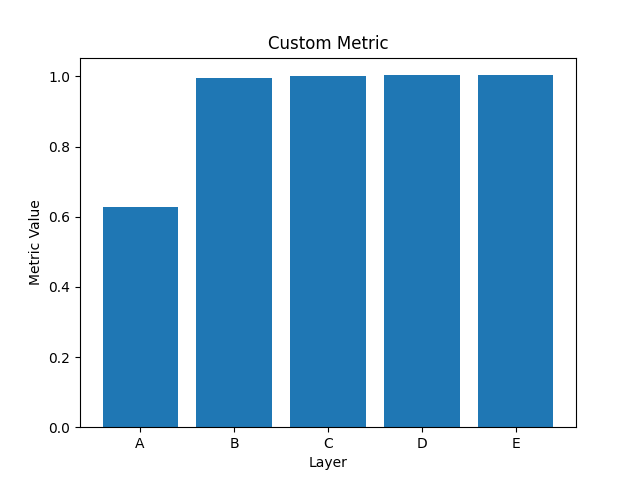
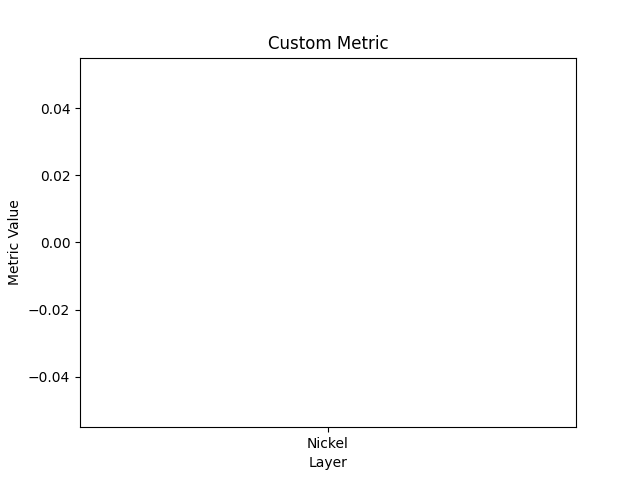
adjusted architecture for training/testing

diff --git a/train.py b/train.py
@@ -1,5 +1,173 @@
 import wandb
 import os
+import pdb
+import h5py
+import numpy as np
+import torch
+from torch.utils.data import Dataset, DataLoader
+import torch.nn as nn
+import torch.optim as optim
+import matplotlib.pyplot as plt
+from models import MineralTransformer, SimpleMineralTransformer
+from utils import visualize_layers, compute_dice_coefficients, plot_dice_coefficients, plot_metric, weighted_mse_loss
+
+# Initialize wandb
+wandb.init(project="mineral_transformer_project", name="2048_0.0001TEST")
+
+grid_size = 50
+d_model = 256
+num_minerals = 10  # Based on the provided details
+
+class MineralDataset(Dataset):
+    def __init__(self, h5_file_path, input_minerals, output_mineral, train=True, train_size=0.8):
+        self.h5_file_path = h5_file_path
+        self.input_minerals = input_minerals
+        self.output_mineral = output_mineral
+        self.train = train
+        
+        with h5py.File(h5_file_path, 'r') as f:
+            counts = f['counts'][:]
+        
+        num_samples = counts.shape[0]
+        indices = np.arange(num_samples)
+        np.random.shuffle(indices)
+        
+        train_split = int(train_size * num_samples)
+        if self.train:
+            self.indices = indices[:train_split]
+        else:
+            self.indices = indices[train_split:]
+        
+        self.counts = counts
+
+    def __len__(self):
+        return len(self.indices)
+
+    def __getitem__(self, idx):
+        index = self.indices[idx]
+        input_data = self.counts[index, self.input_minerals, :, :]
+        output_data = self.counts[index, self.output_mineral:self.output_mineral+1, :, :]
+        return torch.tensor(input_data, dtype=torch.float32), torch.tensor(output_data, dtype=torch.float32)
+losses = []
+def train(model, train_loader, num_epochs=500, learning_rate=0.001):
+    optimizer = optim.AdamW(model.parameters(), lr=learning_rate)
+    criterion = nn.MSELoss()
+
+    for epoch in range(num_epochs):
+        model.train()
+        total_loss = 0
+        for input_tensor_train, output_tensor_train in train_loader:
+            # pdb.set_trace()
+            optimizer.zero_grad()
+            outputs = model(input_tensor_train, output_tensor_train)
+
+            # Flatten for loss 
+            flat_outputs = outputs.view(outputs.size(0), -1)
+            flat_output_tensor_train = output_tensor_train.view(output_tensor_train.size(0), -1)
+
+            loss = criterion(flat_outputs, flat_output_tensor_train)
+            loss.backward()
+
+            nn.utils.clip_grad_norm_(model.parameters(), max_norm=1.0)
+            optimizer.step()
+
+            total_loss += loss.item()
+
+        avg_loss = total_loss / len(train_loader)
+        losses.append(avg_loss)
+        wandb.log({"Loss": avg_loss})
+
+        print(f'Epoch {epoch+1}/{num_epochs}, Loss: {avg_loss}')
+
+    plt.plot(losses, label='Loss')
+    plt.title('Training Loss Curve')
+    plt.xlabel('Epoch')
+    plt.ylabel('Loss')
+    plt.legend()
+    plt.savefig('trainingVis/loss_curve.png')
+    plt.close()
+
+    wandb.save('trainingVis/loss_curve.png')
+
+def load_data(h5_file_path):
+    with h5py.File(h5_file_path, 'r') as f:
+        counts = f['counts'][:]
+        qualities = f['qualities'][:]
+    return counts, qualities
+
+# Load data from HDF5 file
+h5_file_path = 'prepared_data_TILES/mineral_data.h5'
+
+# Select input minerals (excluding Nickel) and output mineral (Nickel)
+input_minerals = [0, 1, 2, 3, 4, 6, 7, 8, 9]  # Indices for Gold, Silver, Zinc, Lead, Copper, Iron, Uranium, Tungsten, Manganese
+output_mineral = 5  # Index for Nickel
+
+# Create Dataset and DataLoader
+train_dataset = MineralDataset(h5_file_path, input_minerals, output_mineral, train=True)
+test_dataset = MineralDataset(h5_file_path, input_minerals, output_mineral, train=False)
+
+train_loader = DataLoader(train_dataset, batch_size=16, shuffle=True)
+test_loader = DataLoader(test_dataset, batch_size=16, shuffle=False)
+
+# Initialize model and train
+model = MineralTransformer(d_model=d_model)
+train(model, train_loader, num_epochs=20, learning_rate=0.0001)
+
+model.eval()
+predicted_output_test = []
+output_tensor_test = []
+
+with torch.no_grad():
+    for input_tensor_test, output_tensor in test_loader:
+        predicted_output_test.append(model(input_tensor_test, output_tensor))
+        output_tensor_test.append(output_tensor)
+
+# Concatenate results
+predicted_output_test = torch.cat(predicted_output_test, dim=0)
+output_tensor_test = torch.cat(output_tensor_test, dim=0)
+
+# Reshape tensors back to the original shape for visualization and metric computation
+batch_size = predicted_output_test.shape[0]
+predicted_np_test = predicted_output_test.numpy().reshape(batch_size, 1, grid_size, grid_size)
+output_np_test = output_tensor_test.numpy()
+
+flattened_output_np_test = output_np_test.reshape(batch_size, 1, -1)
+flattened_predicted_np_test = predicted_np_test.reshape(batch_size, 1, -1)
+
+# Logging metric values to wandb
+metric_values = []
+predicted_sum = np.sum(flattened_predicted_np_test[0, 0, :])
+ground_truth_sum = np.sum(flattened_output_np_test[0, 0, :])
+metric = predicted_sum / (ground_truth_sum + 1e-8)
+metric_values.append(metric)
+wandb.log({f'Nickel_Metric': metric})
+print(f'Nickel: Metric = {metric}')
+
+plot_metric(metric_values, ['Nickel'])
+wandb.save('metric_plot.png')  # Save the plot to wandb
+
+# VIS
+input_elements = ['Gold', 'Silver', 'Zinc', 'Lead', 'Copper', 'Iron', 'Uranium', 'Tungsten', 'Manganese']
+output_element = 'Nickel'
+
+visualize_layers(0, np.zeros_like(output_np_test[0]), output_np_test[0], predicted_np_test[0], input_elements, [output_element])
+
+# Dice coefficients for Nickel in the US
+dice_coeffs = compute_dice_coefficients(flattened_predicted_np_test[0], flattened_output_np_test[0], threshold=0)
+plot_dice_coefficients(dice_coeffs, [output_element])
+wandb.save('dice_coefficients_plot.png')  # Save the plot to wandb
+
+# Finish the wandb run
+wandb.finish()
+
+
+
+
+
+
+''' Memorization script
+import wandb
+import os
 import pickle
 import pdb
 import numpy as np
@@ -143,7 +311,7 @@ wandb.save('dice_coefficients_plot.png')  # Save the plot to wandb
 
 # Finish the wandb run
 wandb.finish()
-
+'''
 
 ''' OLD CONTOUR PLOTTING
 # Visualization code remains the same

diff --git a/models.py b/models.py
@@ -2,7 +2,7 @@ import torch
 import torch.nn as nn
 import pdb
 
-grid_size = 60
+grid_size = 50  # Adjusted to 50x50 grid
 
 class MineralTransformer(nn.Module):
     def __init__(self, d_model=128, nhead=4, num_encoder_layers=2, num_decoder_layers=2, dim_feedforward=512, dropout=0.1):
@@ -15,6 +15,60 @@ class MineralTransformer(nn.Module):
         self.decoder = nn.TransformerDecoder(self.decoder_layer, num_decoder_layers)
         
         self.output_projection = nn.Linear(d_model, grid_size * grid_size)
+        
+        self.layer_norm = nn.LayerNorm(d_model)
+        self.relu = nn.ReLU()  # Ensure non-negative output
+
+    def forward(self, src, tgt):
+        batch_size, num_minerals_input, grid_x, grid_y = src.shape
+        # torch.Size([16, 9, 50, 50])
+        num_minerals_output = tgt.shape[1]
+        # torch.Size([16, 1, 50, 50])
+        # pdb.set_trace()
+        src = src.view(batch_size, num_minerals_input, -1)
+        # torch.Size([16, 9, 2500])
+        tgt = tgt.view(batch_size, num_minerals_output, -1)
+        # torch.Size([16, 1, 2500])
+        
+        src = self.input_projection(src)
+        # (torch.Size([16, 9, 256])
+        tgt_proj = self.input_projection(tgt)
+        # (torch.Size([16, 1, 256])
+        
+        src = self.layer_norm(src)
+        # (torch.Size([16, 9, 256])
+        tgt_proj = self.layer_norm(tgt_proj)
+        # (torch.Size([16, 1, 256])
+        
+        memory = self.encoder(src)
+        # torch.Size([16, 9, 256])
+        output = self.decoder(tgt_proj, memory)
+        # torch.Size([16, 1, 256])
+        
+        output = self.output_projection(output)
+        # torch.Size([16, 1, 2500])
+        output = self.relu(output)  # Apply ReLU to ensure non-negative output
+        # torch.Size([16, 1, 2500])
+        
+        output = output.view(batch_size, num_minerals_output, grid_x, grid_y)
+        # torch.Size([16, 1, 50, 50])
+        
+        return output
+
+
+grid_sizeS = 60
+
+class SimpleMineralTransformer(nn.Module):
+    def __init__(self, d_model=128, nhead=4, num_encoder_layers=2, num_decoder_layers=2, dim_feedforward=512, dropout=0.1):
+        super(SimpleMineralTransformer, self).__init__()
+        self.input_projection = nn.Linear(grid_sizeS * grid_sizeS, d_model)
+        self.encoder_layer = nn.TransformerEncoderLayer(d_model, nhead, dim_feedforward, dropout, activation='relu', batch_first=True)
+        self.encoder = nn.TransformerEncoder(self.encoder_layer, num_encoder_layers)
+        
+        self.decoder_layer = nn.TransformerDecoderLayer(d_model, nhead, dim_feedforward, dropout, activation='relu', batch_first=True)
+        self.decoder = nn.TransformerDecoder(self.decoder_layer, num_decoder_layers)
+        
+        self.output_projection = nn.Linear(d_model, grid_sizeS * grid_sizeS)
         
         self.layer_norm = nn.LayerNorm(d_model)
         self.relu = nn.ReLU()  # Ensure non-negative output
@@ -35,7 +89,7 @@ class MineralTransformer(nn.Module):
         output = self.output_projection(output)
         output = self.relu(output)  # Apply ReLU to ensure non-negative output
         
-        output = output.view(batch_size, seq_length_output, grid_size, grid_size)
+        output = output.view(batch_size, seq_length_output, grid_sizeS, grid_sizeS)
         
         # Apply cumulative sum and then reshape
         output_split = torch.split(output, 5, dim=1)  # Split by quality layers (5 each)
@@ -44,6 +98,6 @@ class MineralTransformer(nn.Module):
             output_cumsum.append(torch.cumsum(layer, dim=1))
         
         output_cumsum = torch.cat(output_cumsum, dim=1)
-        output_cumsum = output_cumsum.view(batch_size, 5, 5, grid_size, grid_size)
+        output_cumsum = output_cumsum.view(batch_size, 5, 5, grid_sizeS, grid_sizeS)
         
         return output_cumsum, output
